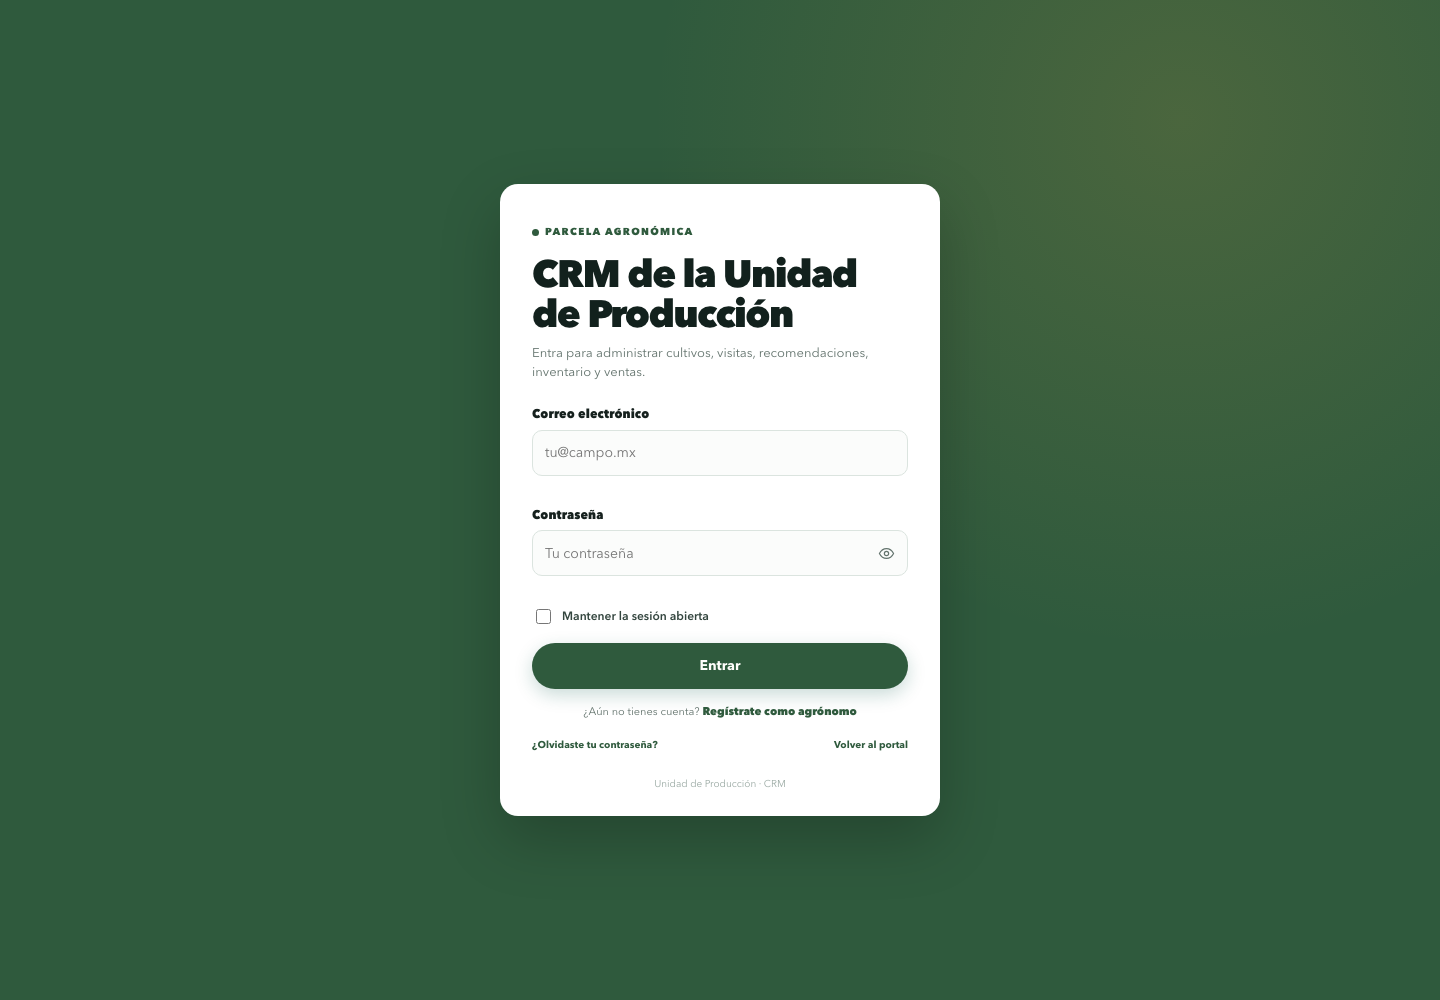
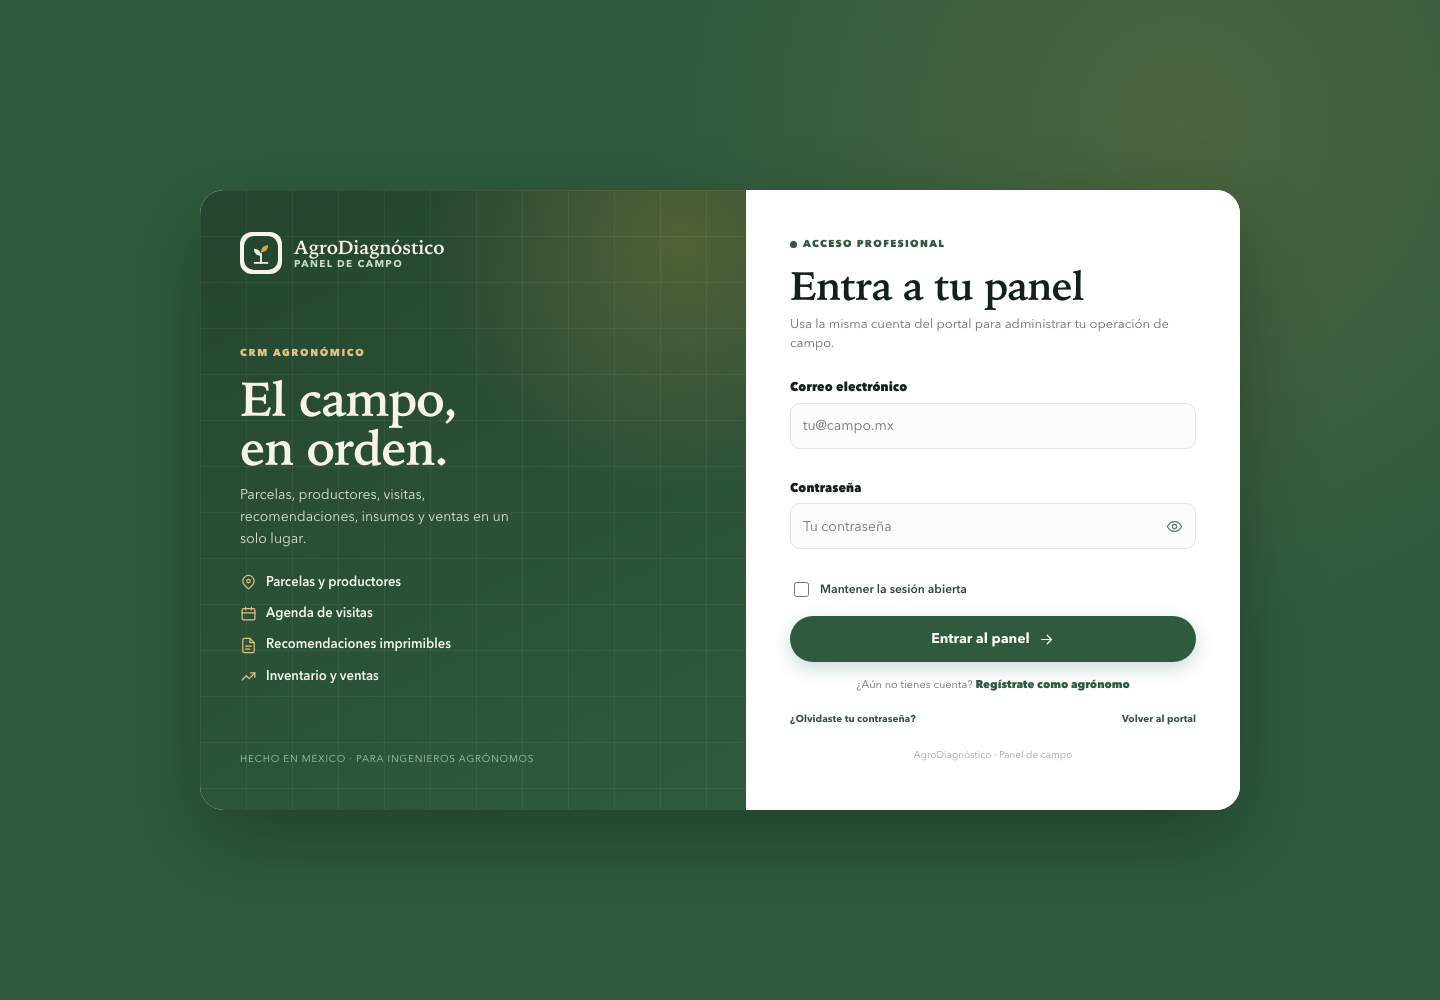
Rediseña el acceso al CRM con identidad del portal y diseño de dos columnas

diff --git a/public/assets/css/panel.css b/public/assets/css/panel.css
@@ -1079,3 +1079,193 @@
 .crm-auth-register a:hover {
     text-decoration: underline;
 }
+
+/* Acceso al panel de campo: composición de dos columnas */
+.crm-auth {
+    padding: 32px 18px;
+}
+
+.crm-auth-shell {
+    display: grid;
+    grid-template-columns: 1.05fr .95fr;
+    width: min(1040px, 100%);
+    overflow: hidden;
+    border-radius: 24px;
+    background: #fff;
+    box-shadow: 0 30px 80px rgba(0, 0, 0, .28);
+}
+
+.crm-auth-aside {
+    position: relative;
+    display: flex;
+    flex-direction: column;
+    justify-content: space-between;
+    gap: 30px;
+    padding: 42px 40px;
+    background:
+        radial-gradient(circle at 88% 8%, rgba(217, 164, 65, .24), transparent 34%),
+        linear-gradient(155deg, #24452f 0%, #2f5a3d 100%);
+    color: #f7f3ea;
+    overflow: hidden;
+}
+
+.crm-auth-aside::before {
+    content: "";
+    position: absolute;
+    inset: 0;
+    background-image: linear-gradient(rgba(255, 255, 255, .05) 1px, transparent 1px),
+        linear-gradient(90deg, rgba(255, 255, 255, .05) 1px, transparent 1px);
+    background-size: 46px 46px;
+    pointer-events: none;
+}
+
+.crm-auth-aside > * {
+    position: relative;
+    z-index: 1;
+}
+
+.crm-auth-brand {
+    display: inline-flex;
+    align-items: center;
+    gap: 12px;
+    color: #f7f3ea;
+    text-decoration: none;
+}
+
+.crm-auth-brand img {
+    border-radius: 12px;
+    background: #f7f3ea;
+    padding: 4px;
+}
+
+.crm-auth-brand span {
+    display: flex;
+    flex-direction: column;
+    line-height: 1.15;
+}
+
+.crm-auth-brand strong {
+    font-family: var(--font-serif);
+    font-size: 19px;
+    letter-spacing: -.01em;
+}
+
+.crm-auth-brand small {
+    color: #c9dbcd;
+    font-size: 10px;
+    font-weight: 700;
+    letter-spacing: .14em;
+    text-transform: uppercase;
+}
+
+.crm-auth-pitch h2 {
+    margin: 10px 0 12px;
+    color: #f7f3ea;
+    font-family: var(--font-serif);
+    font-size: clamp(34px, 4vw, 48px);
+    font-weight: 700;
+    letter-spacing: -.02em;
+    line-height: 1.02;
+}
+
+.crm-auth-eyebrow {
+    color: #e2c27f;
+    font-size: 10px;
+    font-weight: 800;
+    letter-spacing: .16em;
+    text-transform: uppercase;
+}
+
+.crm-auth-pitch p {
+    max-width: 34ch;
+    color: #d8e5d9;
+    font-size: 14px;
+    line-height: 1.55;
+}
+
+.crm-auth-list {
+    display: grid;
+    gap: 10px;
+    margin: 22px 0 0;
+    padding: 0;
+    list-style: none;
+}
+
+.crm-auth-list li {
+    display: flex;
+    align-items: center;
+    gap: 9px;
+    color: #f2f7ee;
+    font-size: 13px;
+    font-weight: 600;
+}
+
+.crm-auth-list .icon {
+    color: #e2c27f;
+}
+
+.crm-auth-aside-foot {
+    color: #a9c2ad;
+    font-size: 10px;
+    letter-spacing: .08em;
+    text-transform: uppercase;
+}
+
+.crm-auth-card {
+    width: auto;
+    display: flex;
+    flex-direction: column;
+    justify-content: center;
+    padding: 46px 44px;
+    border-radius: 0;
+    box-shadow: none;
+}
+
+.crm-auth-card h1 {
+    margin-top: 12px;
+    font-family: var(--font-serif);
+    font-size: clamp(30px, 3.4vw, 40px);
+    font-weight: 700;
+    letter-spacing: -.02em;
+    line-height: 1.05;
+}
+
+.crm-auth-card .crm-lead {
+    margin: 8px 0 24px;
+}
+
+.crm-auth-card .crm-auth-foot {
+    margin-top: 20px;
+}
+
+@media (max-width: 860px) {
+    .crm-auth {
+        padding: 18px 14px;
+    }
+
+    .crm-auth-shell {
+        grid-template-columns: 1fr;
+    }
+
+    .crm-auth-aside {
+        padding: 22px 24px;
+    }
+
+    .crm-auth-brand img {
+        width: 34px;
+        height: 34px;
+    }
+
+    .crm-auth-brand strong {
+        font-size: 16px;
+    }
+
+    .crm-auth-pitch,
+    .crm-auth-aside-foot {
+        display: none;
+    }
+
+    .crm-auth-card {
+        padding: 28px 22px 24px;
+    }
+}

diff --git a/app/Views/panel/login.php b/app/Views/panel/login.php
@@ -2,46 +2,69 @@
 $errors = \App\Core\Flash::errors();
 ?>
 <section class="crm-auth">
-    <div class="crm-auth-card">
-        <span class="crm-eyebrow"><span></span> Parcela agronómica</span>
-        <h1>CRM de la Unidad de Producción</h1>
-        <p class="crm-lead">Entra para administrar cultivos, visitas, recomendaciones, inventario y ventas.</p>
+    <div class="crm-auth-shell">
+        <aside class="crm-auth-aside">
+            <a class="crm-auth-brand" href="<?= e(url('/')) ?>">
+                <img src="<?= e(url('/assets/img/logo.svg')) ?>" alt="" width="42" height="42">
+                <span><strong>AgroDiagnóstico</strong><small>Panel de campo</small></span>
+            </a>
 
-        <?php if ($errors !== []): ?>
-            <div class="form-error-summary" role="alert">
-                <?= icon('alert-triangle', 'icon') ?>
-                <div>
-                    <strong>No pudimos iniciar sesión</strong>
-                    <ul><?php foreach ($errors as $error): ?><li><?= e($error) ?></li><?php endforeach; ?></ul>
+            <div class="crm-auth-pitch">
+                <span class="crm-auth-eyebrow">CRM agronómico</span>
+                <h2>El campo,<br>en orden.</h2>
+                <p>Parcelas, productores, visitas, recomendaciones, insumos y ventas en un solo lugar.</p>
+                <ul class="crm-auth-list">
+                    <li><?= icon('map-pin', 'icon icon-sm') ?> Parcelas y productores</li>
+                    <li><?= icon('calendar', 'icon icon-sm') ?> Agenda de visitas</li>
+                    <li><?= icon('file-text', 'icon icon-sm') ?> Recomendaciones imprimibles</li>
+                    <li><?= icon('trending-up', 'icon icon-sm') ?> Inventario y ventas</li>
+                </ul>
+            </div>
+
+            <p class="crm-auth-aside-foot">Hecho en México · para ingenieros agrónomos</p>
+        </aside>
+
+        <div class="crm-auth-card">
+            <span class="crm-eyebrow"><span></span> Acceso profesional</span>
+            <h1>Entra a tu panel</h1>
+            <p class="crm-lead">Usa la misma cuenta del portal para administrar tu operación de campo.</p>
+
+            <?php if ($errors !== []): ?>
+                <div class="form-error-summary" role="alert">
+                    <?= icon('alert-triangle', 'icon') ?>
+                    <div>
+                        <strong>No pudimos iniciar sesión</strong>
+                        <ul><?php foreach ($errors as $error): ?><li><?= e($error) ?></li><?php endforeach; ?></ul>
+                    </div>
                 </div>
-            </div>
-        <?php endif; ?>
+            <?php endif; ?>
 
-        <form class="crm-auth-form" method="post" action="<?= e(url('/panel/entrar')) ?>">
-            <?= csrf_field() ?>
-            <div class="field">
-                <label for="email">Correo electrónico</label>
-                <input id="email" name="email" type="email" autocomplete="email" required value="<?= e(old('email')) ?>" placeholder="tu@campo.mx">
-            </div>
-            <div class="field">
-                <label for="password">Contraseña</label>
-                <div class="password-field">
-                    <input id="password" name="password" type="password" autocomplete="current-password" required placeholder="Tu contraseña">
-                    <?php \App\Core\View::partial('partials/password-toggle', ['id' => 'password']); ?>
+            <form class="crm-auth-form" method="post" action="<?= e(url('/panel/entrar')) ?>">
+                <?= csrf_field() ?>
+                <div class="field">
+                    <label for="email">Correo electrónico</label>
+                    <input id="email" name="email" type="email" autocomplete="email" required value="<?= e(old('email')) ?>" placeholder="tu@campo.mx">
                 </div>
-            </div>
-            <label class="crm-remember">
-                <input type="checkbox" name="remember" value="1" <?= old('remember') ? 'checked' : '' ?>>
-                <span>Mantener la sesión abierta</span>
-            </label>
-            <button class="btn btn-primary btn-block" type="submit">Entrar</button>
-        </form>
+                <div class="field">
+                    <label for="password">Contraseña</label>
+                    <div class="password-field">
+                        <input id="password" name="password" type="password" autocomplete="current-password" required placeholder="Tu contraseña">
+                        <?php \App\Core\View::partial('partials/password-toggle', ['id' => 'password']); ?>
+                    </div>
+                </div>
+                <label class="crm-remember">
+                    <input type="checkbox" name="remember" value="1" <?= old('remember') ? 'checked' : '' ?>>
+                    <span>Mantener la sesión abierta</span>
+                </label>
+                <button class="btn btn-primary btn-block" type="submit">Entrar al panel <?= icon('arrow-right', 'icon icon-sm') ?></button>
+            </form>
 
-        <p class="crm-auth-register">¿Aún no tienes cuenta? <a href="<?= e(url('/panel/registro')) ?>">Regístrate como agrónomo</a></p>
-        <div class="crm-auth-links">
-            <a href="<?= e(url('/recuperar')) ?>">¿Olvidaste tu contraseña?</a>
-            <a href="<?= e(url('/')) ?>">Volver al portal</a>
+            <p class="crm-auth-register">¿Aún no tienes cuenta? <a href="<?= e(url('/panel/registro')) ?>">Regístrate como agrónomo</a></p>
+            <div class="crm-auth-links">
+                <a href="<?= e(url('/recuperar')) ?>">¿Olvidaste tu contraseña?</a>
+                <a href="<?= e(url('/')) ?>">Volver al portal</a>
+            </div>
+            <p class="crm-auth-foot">AgroDiagnóstico · Panel de campo</p>
         </div>
-        <p class="crm-auth-foot">Unidad de Producción · CRM</p>
     </div>
 </section>
